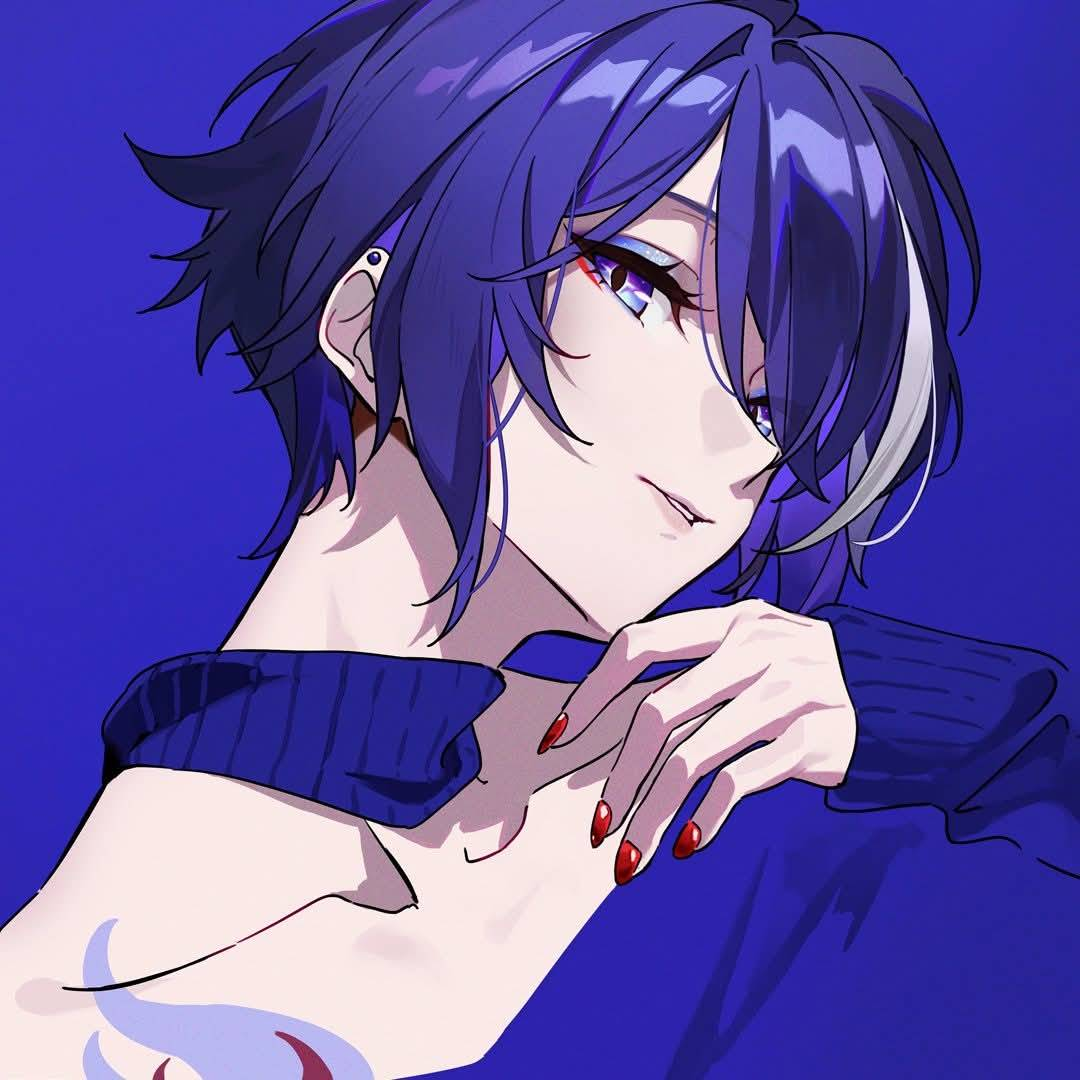
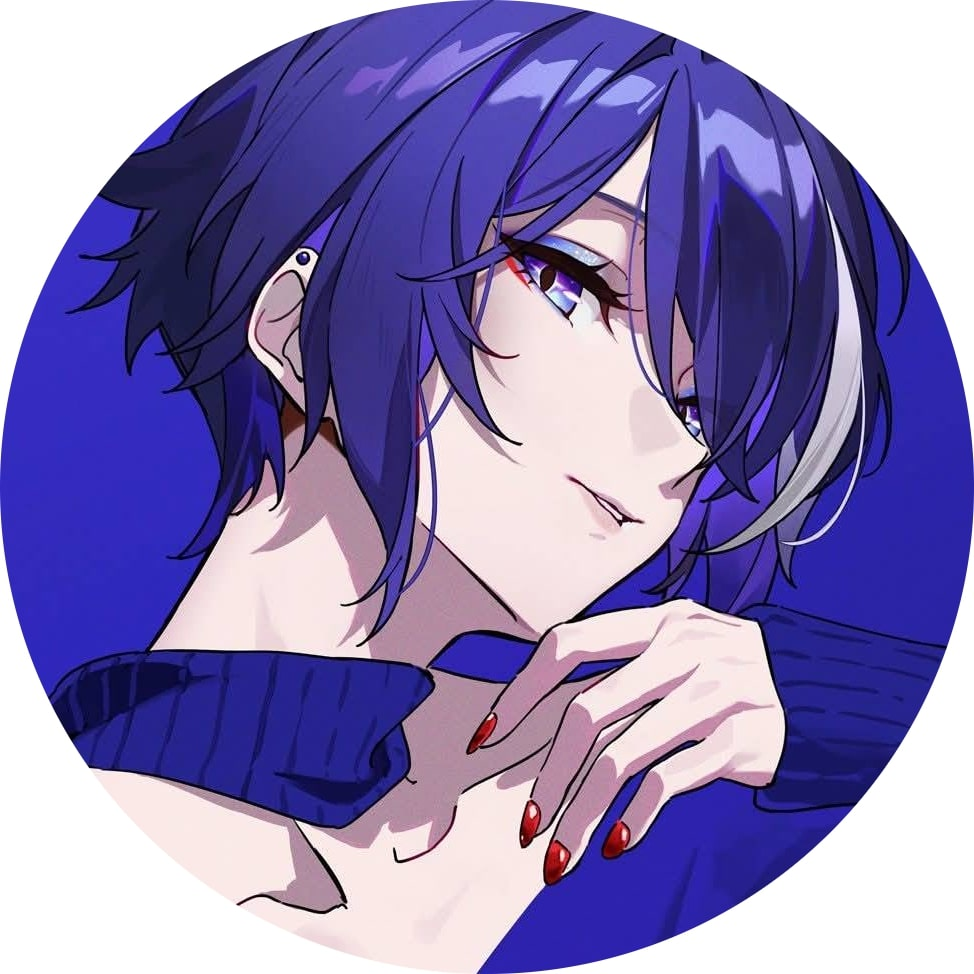
commit6

diff --git a/pages/navbar/index.js b/pages/navbar/index.js
@@ -4,7 +4,7 @@ const Navbar = () => {
   return (
     <header class="text-gray-400 bg-gray-900 body-font">
   <div class="container mx-auto flex flex-wrap p-5 flex-col md:flex-row items-center">
-    <Image src="/acheron.jpg" width={80} height={80}></Image>
+    <Image src="/acheron.png" width={80} height={80}></Image>
     <span class="ml-3 text-xl">Zidane Lineses</span>
     <nav class="md:ml-auto flex flex-wrap items-center text-base justify-center">
       <a class="mr-5 hover:text-white">First Link</a>
